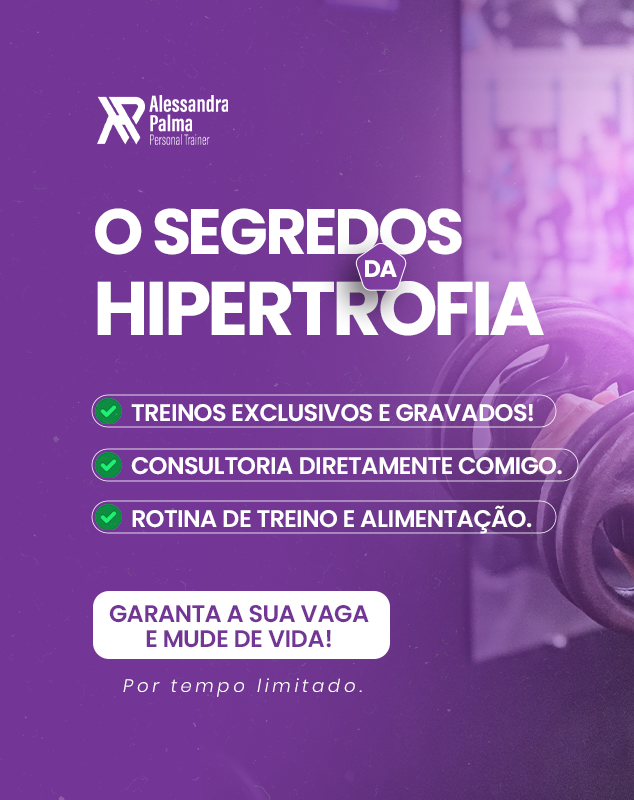
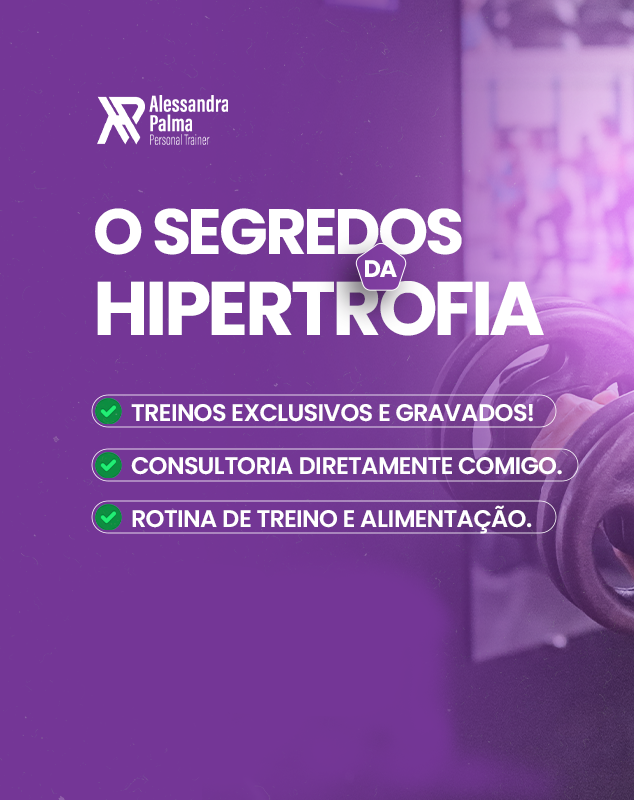
feat: add button no main

Changed region(s): [[0.1199, 0.7188, 0.6293, 0.875], [0.6293, 0.875, 0.7192, 0.9688], [0.7192, 0.9688, 0.7792, 1.0]]

diff --git a/src/components/BannerMain.jsx b/src/components/BannerMain.jsx
@@ -1,17 +1,25 @@
 import Image from "next/image";
-import { Link } from "react-scroll";
 
 export function BannerMain() {
   return (
     <div className="bg-[url('/bannerMobile.png')] md:bg-[url('/banner2.png')] bg-no-repeat bg-cover bg-center  relative">
-      <Link to="comprar" smooth={true}>
+      <div className="relative">
         <Image
           src={"/bannerMobile.png"}
           width={800}
           height={800}
           className="w-full md:hidden"
         />
-      </Link>
+        <div className="flex justify-center">
+          <a
+            href="https://pay.hotmart.com/M81294188Q?off=u9i14bx1&bid=1700597420698"
+            target="_blank"
+            className="bg-green-500 hover:bg-green-400 duration-300 text-white w-[80%] py-4 text-sm sm:text-base rounded-md font-medium uppercase absolute bottom-12 text-center"
+          >
+            QUERO TREINAR COM A ALÊ
+          </a>
+        </div>
+      </div>
       <div className="px-4 h-screen w-full hidden md:block">
         <div className="text-white text-center max-w-6xl mx-auto h-full flex items-end justify-end">
           <div
